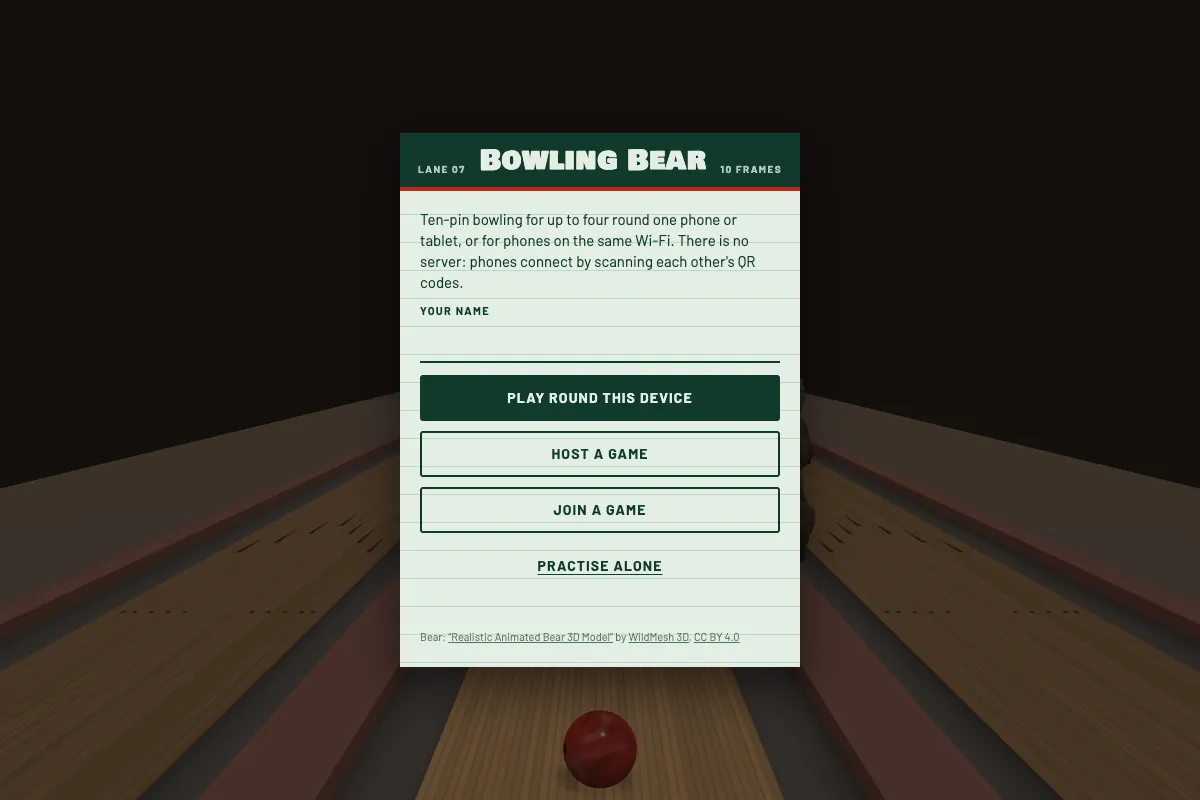
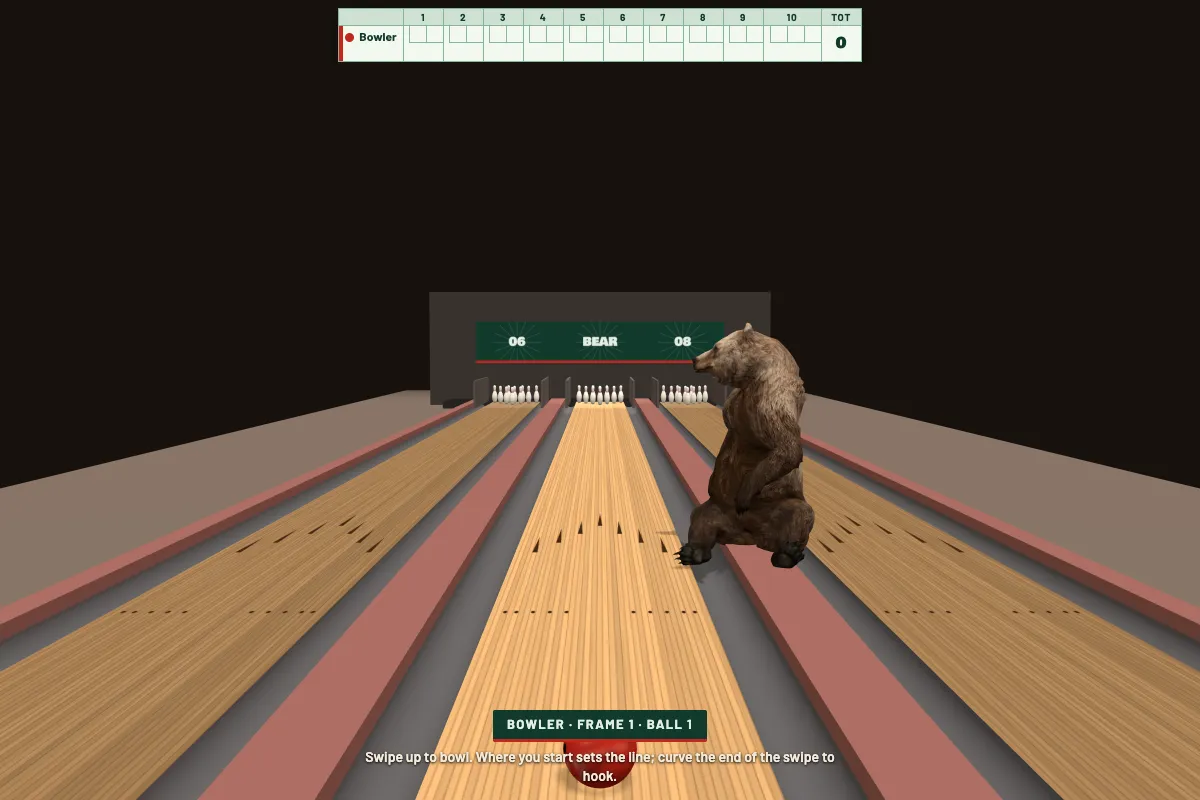
Bowling Bear, Quizbuzz and Trackaholic thumbnails show a game in play rather than the opening screen

diff --git a/build-screenshots.js b/build-screenshots.js
@@ -115,6 +115,25 @@ const recipes = {
 		await page.evaluate(`new Promise(resolve => { const check = () => window.__meadow ? resolve(true) : setTimeout(check,200); check(); })`);
 		await page.wait(4000);
 	},
+	"games/bowling-bear": async page => {
+		// Practise alone, to show the bear by the pins at the end of the lane
+		await page.click("#bSolo");
+		await page.wait(4000);
+	},
+	"games/quizbuzz": async page => {
+		// Start the practice game with the robots, to show a question
+		await page.click("#bStart");
+		await page.wait(12000);
+	},
+	"games/trackaholic": async page => {
+		// Race alone, holding the accelerator, to show the car under the start
+		// arch with the bots
+		await page.evaluate(`new Promise(resolve => { const check = () => document.getElementById("bSolo").disabled ? setTimeout(check,200) : resolve(true); check(); })`);
+		await page.click("#bSolo");
+		await page.wait(3000);
+		await page.evaluate(`dispatchEvent(new KeyboardEvent("keydown",{code: "ArrowUp"}))`);
+		await page.wait(4000);
+	},
 	"games/marble-flick": async page => {
 		// Start a game so that the board is shown instead of the setup card
 		await page.click("#startBtn");
@@ -171,14 +190,7 @@ const closeups = {
 	"games/animal-island": {clip: {x: 300, y: 170, width: 520, height: 520}},
 	"toys/bear-beat": {clip: {x: 390, y: 200, width: 420, height: 420}},
 	"toys/blobbles": {clip: {x: 560, y: 100, width: 520, height: 520}},
-	"games/bowling-bear": {
-		// Practise alone, to show the bear by the pins at the end of the lane
-		recipe: async page => {
-			await page.click("#bSolo");
-			await page.wait(4000);
-		},
-		clip: {x: 440, y: 230, width: 420, height: 420}
-	},
+	"games/bowling-bear": {clip: {x: 440, y: 230, width: 420, height: 420}},
 	"games/catflap": {clip: {x: 560, y: 120, width: 580, height: 580}},
 	"toys/engravery": {clip: {x: 170, y: 160, width: 580, height: 580}},
 	"toys/flowing-field": {clip: {x: 300, y: 150, width: 500, height: 500}},
@@ -198,18 +210,7 @@ const closeups = {
 	"toys/rug-addict": {clip: {x: 155, y: 250, width: 315, height: 315}},
 	"toys/spotty-sphericle": {clip: {x: 110, y: 90, width: 590, height: 590}},
 	"toys/sunthesis": {clip: {x: 140, y: 110, width: 580, height: 580}},
-	"games/trackaholic": {
-		// Race alone, holding the accelerator, to show the car under the start
-		// arch with the bots
-		recipe: async page => {
-			await page.evaluate(`new Promise(resolve => { const check = () => document.getElementById("bSolo").disabled ? setTimeout(check,200) : resolve(true); check(); })`);
-			await page.click("#bSolo");
-			await page.wait(3000);
-			await page.evaluate(`dispatchEvent(new KeyboardEvent("keydown",{code: "ArrowUp"}))`);
-			await page.wait(4000);
-		},
-		clip: {x: 240, y: 60, width: 720, height: 720}
-	},
+	"games/trackaholic": {clip: {x: 240, y: 60, width: 720, height: 720}},
 	"games/trundle-world": {clip: {x: 300, y: 60, width: 640, height: 640}},
 	"tools/tunerful": {clip: {x: 320, y: 50, width: 560, height: 560}},
 	"tools/vectorious": {
